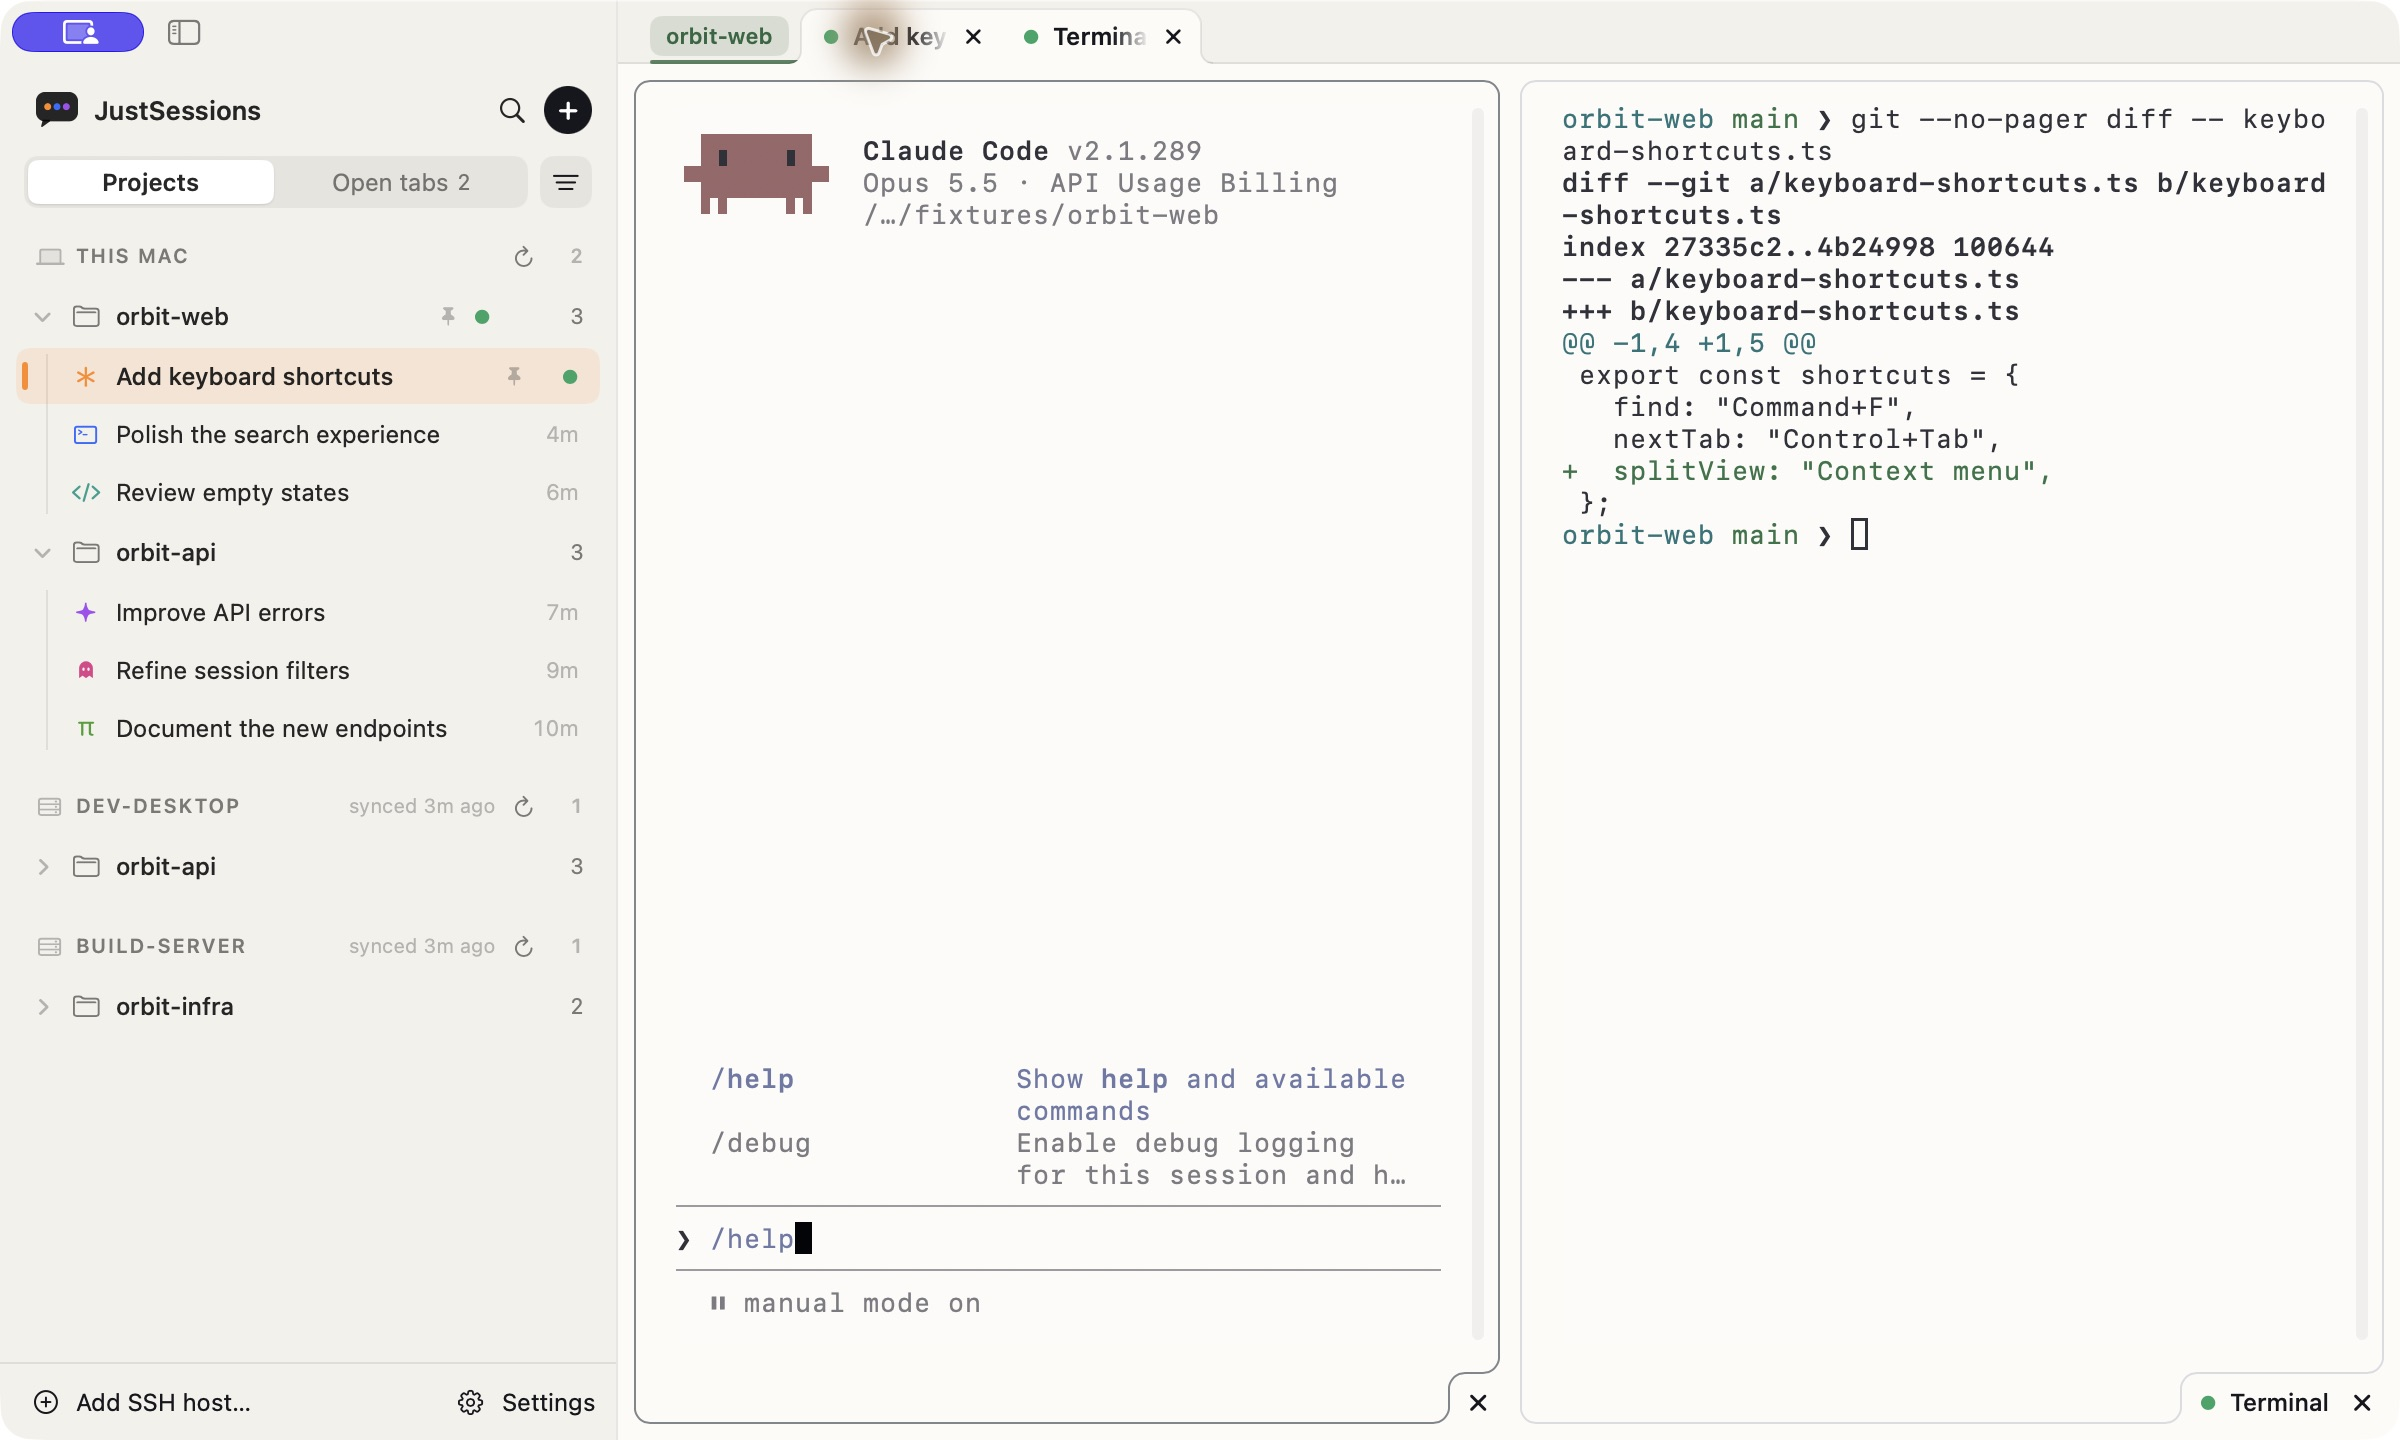
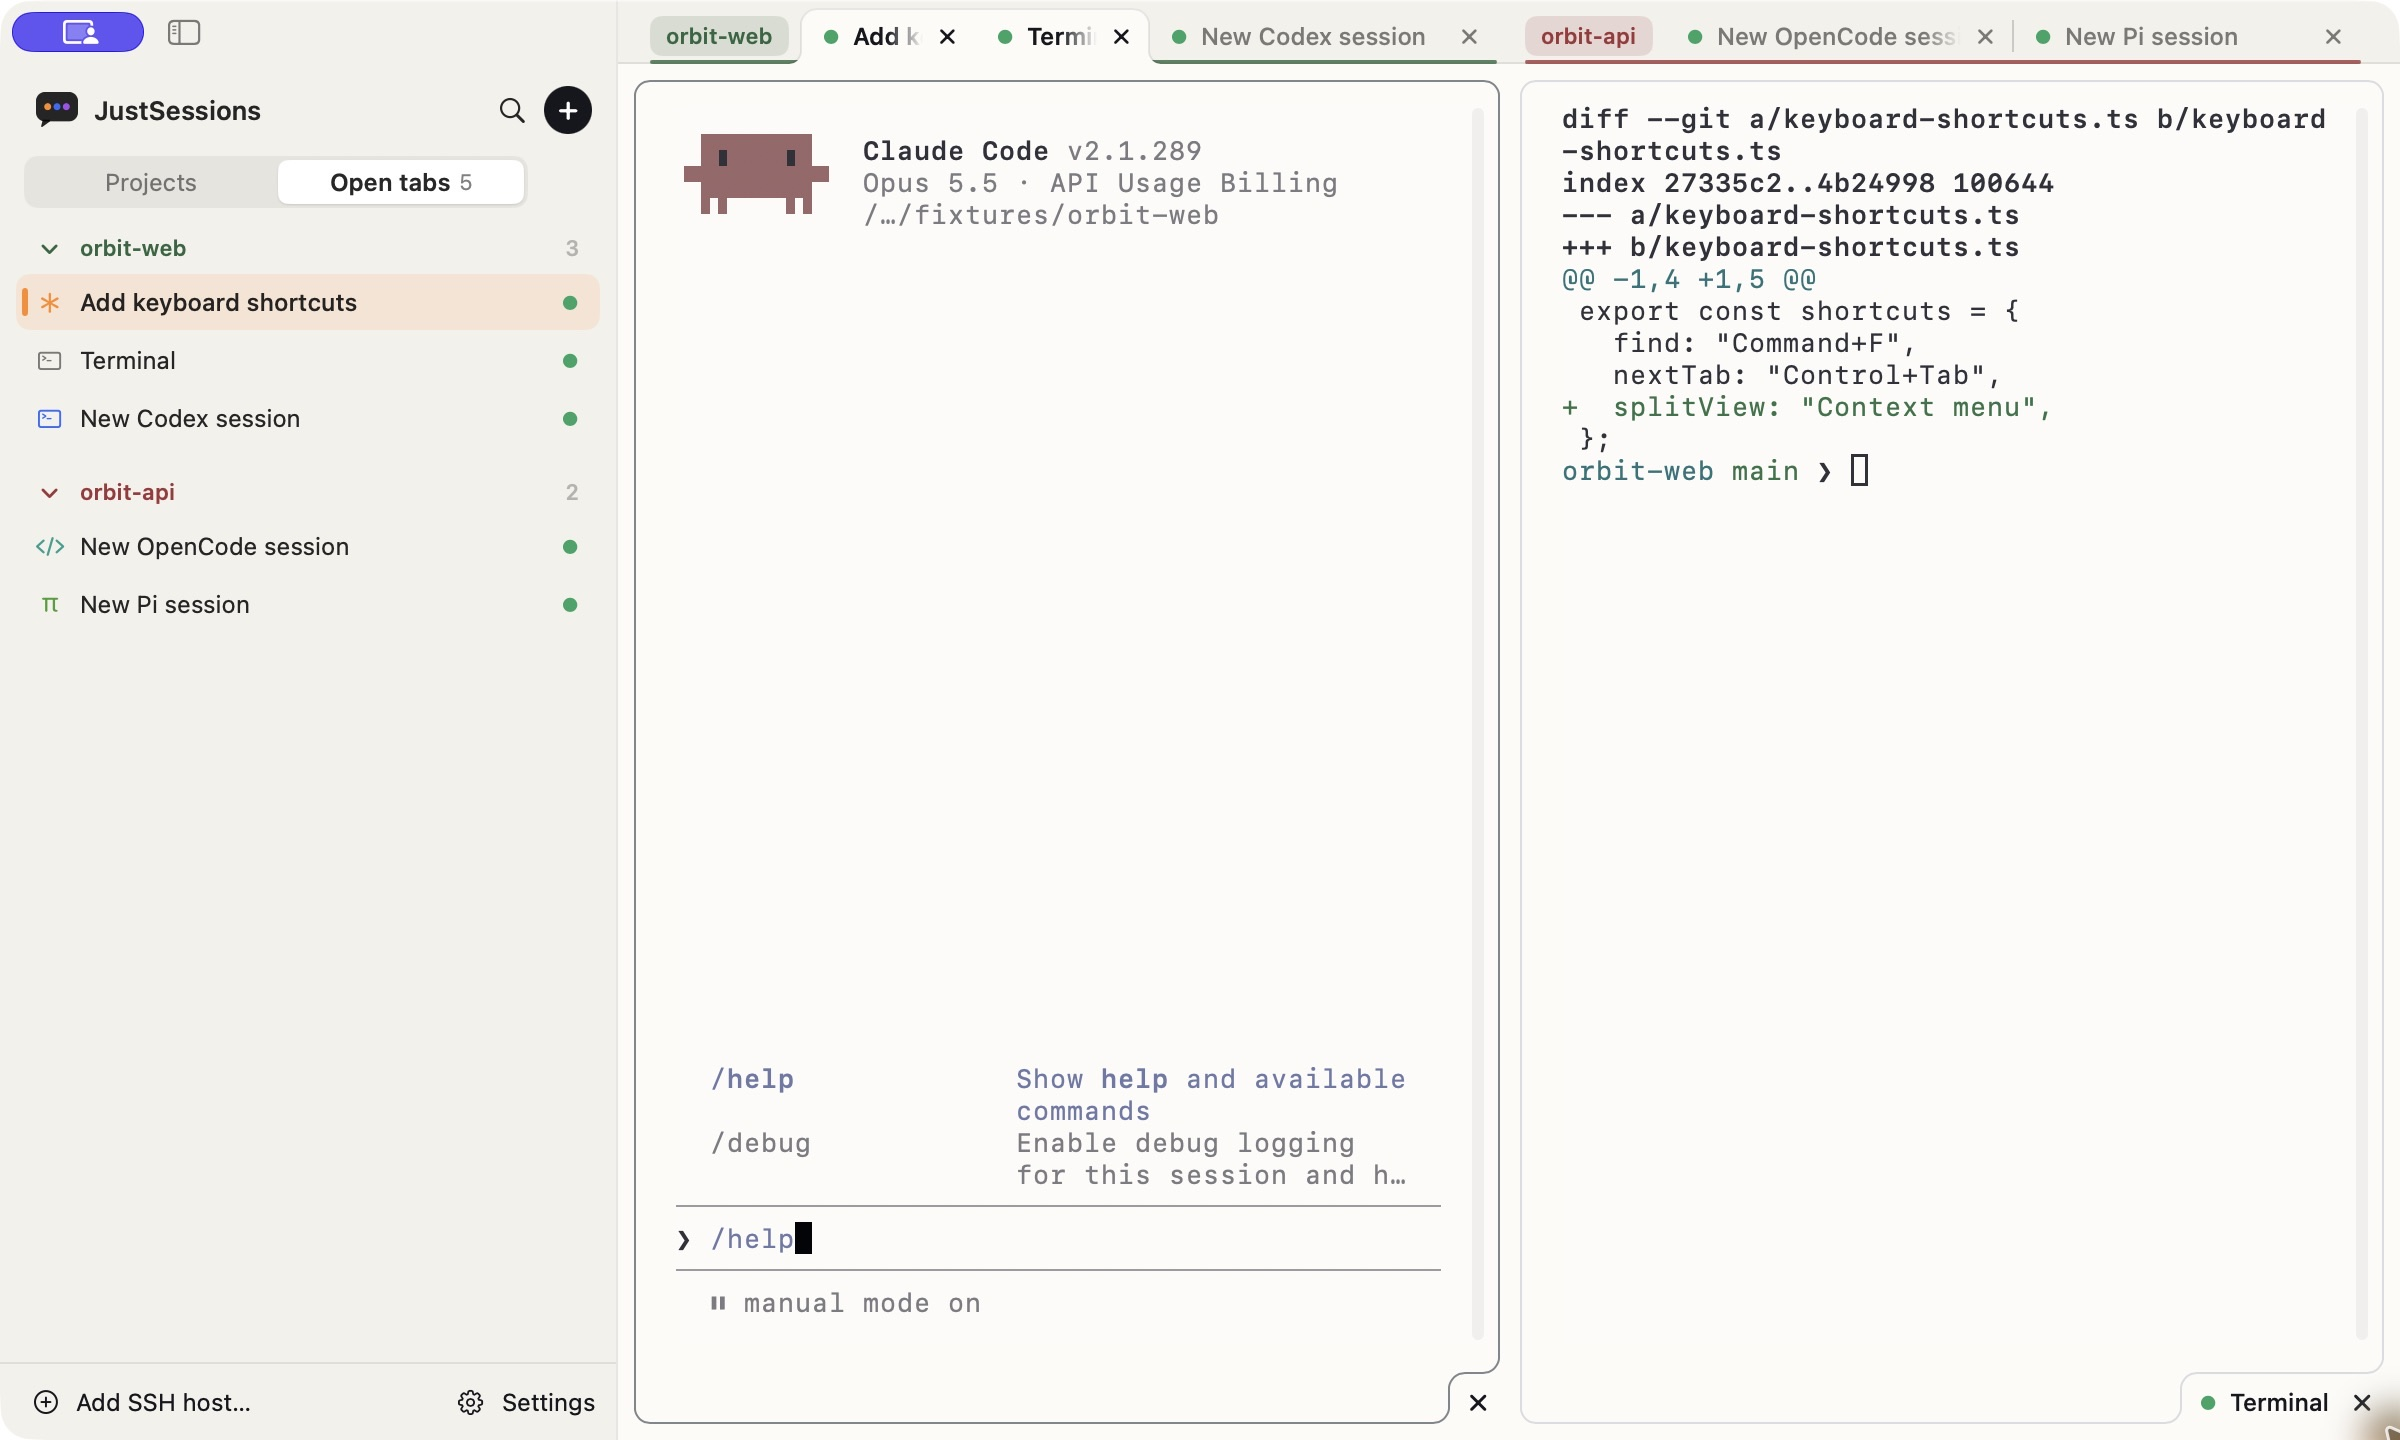
Show vertical open tabs alongside terminal split view

diff --git a/website/index.html b/website/index.html
@@ -140,8 +140,8 @@
                   <li>Agent + shell, side by side</li>
                 </ul>
               </figcaption>
-              <a class="gallery-image" href="./assets/split-terminal.jpg" aria-label="View the split view screenshot at full size">
-                <img src="./assets/split-terminal.jpg" width="2400" height="1440" loading="lazy" decoding="async" alt="JustSessions actual split view with Claude Code on the left and a project shell showing a real Git diff on the right, with joined tabs and a resize handle.">
+              <a class="gallery-image" href="./assets/split-terminal.jpg" aria-label="View the Open tabs and split view screenshot at full size">
+                <img src="./assets/split-terminal.jpg" width="2400" height="1440" loading="lazy" decoding="async" alt="JustSessions Open tabs sidebar lists five tabs across two projects, including Claude Code, Codex, OpenCode, Pi, and a shell. The split view shows the real Claude Code CLI beside a project shell displaying Git diff.">
               </a>
             </figure>
             <figure class="gallery-slide" id="reading" role="group" aria-roledescription="slide" aria-label="5 of 5: Session reader">

diff --git a/docs/development/website.md b/docs/development/website.md
@@ -23,7 +23,7 @@ The SSH slide adds the decorative `website/annotations/ssh-host-highlight.svg` l
 
 The homepage gallery presents your existing CLIs in one native terminal workspace → SSH → tmux → Split → Read. Each slide reads like a presentation page: on screens wider than 1000px, the heading and three short bullet points sit in a left column beside the screenshot, so the whole slide and its controls fit in the first screen of a 1440 × 820 laptop window. Narrower screens stack the text above the screenshot, and the caption row absorbs height differences so screenshots stay aligned without fixed caption heights. The first slide, “The CLIs you already use.”, lists the six supported agents in place of feature bullets. Slide headings stay smaller than the hero title. Screenshots sit directly on the page background, not inside a card. Guide navigation stays in the top bar and footer; the gallery has no small guide links or visible source labels. The slideshow controls sit centered under the screenshot. Five progress segments replace the text navigation labels; the active segment fills until the next screenshot. Each segment is also an accessible direct-selection button. Original screenshots stay unedited and link to their full-size files. The gallery supports swipe/trackpad scrolling, previous/next buttons, and arrow/Home/End keys when the track has focus. Without JavaScript, native scrolling and full-size image links still work.
 
-The third slide explains that choosing **Keep running** leaves the CLI in tmux until you click the session to reattach, and places the real close-tab choice over the full reattached-terminal image. Keep these two captures separately linked; choosing Keep running applies to closing a tmux-backed CLI tab, while quitting the app keeps its tmux sessions running without that choice. The fourth slide uses “Tabs like Chrome. Split view.” with bullets for creating and switching tabs, automatically reopening tabs at launch, and showing an agent beside a shell. Feature bullets use one consistent size and weight across desktop and phone layouts.
+The third slide explains that choosing **Keep running** leaves the CLI in tmux until you click the session to reattach, and places the real close-tab choice over the full reattached-terminal image. Keep these two captures separately linked; choosing Keep running applies to closing a tmux-backed CLI tab, while quitting the app keeps its tmux sessions running without that choice. The fourth slide uses “Tabs like Chrome. Split view.” with bullets for creating and switching tabs, automatically reopening tabs at launch, and showing an agent beside a shell. Its screenshot selects **Open tabs**, showing five tabs grouped vertically by project alongside the Claude Code and shell split view. Feature bullets use one consistent size and weight across desktop and phone layouts.
 
 `make website-check` also runs dependency-free Node tests for default automatic playback, continuous rotation in background tabs, and countdown preservation on explicit pause/resume. Python tests reject stale screenshot, script, and imported-module cache versions. Both website validation workflows set up Node 22 explicitly.
 

diff --git a/docs/images/README.md b/docs/images/README.md
@@ -5,7 +5,7 @@ These are unedited captures of the actual JustSessions SwiftUI and AppKit interf
 | Image | What it shows |
 | --- | --- |
 | [native-terminal.jpg](native-terminal.jpg) | The installed Claude Code CLI's real interactive `/help` screen in the native terminal, with current project tab groups and all six agent icons. |
-| [split-terminal.jpg](split-terminal.jpg) | Actual split view: the same Claude Code CLI's command input on the left and a real shell displaying `git diff` in the sample project on the right. |
+| [split-terminal.jpg](split-terminal.jpg) | The selected Open tabs sidebar lists five tabs across two projects: Claude Code, a shell, Codex, OpenCode, and Pi. The split view pairs the real Claude Code CLI's command input with a shell displaying `git diff`. Refreshed from the same existing sample app on October 4, 2026. |
 | [session-overview.jpg](session-overview.jpg) | The current conversation reader, pinned projects and sessions, Projects / Open tabs navigation, per-host refresh, and reading controls. |
 | [remote-desktop-sessions.jpg](remote-desktop-sessions.jpg) | A selected Claude Code conversation under the sample `dev-desktop` SSH host. |
 | [tmux-keep-running.jpg](tmux-keep-running.jpg) | The full app window after quitting and reopening: the same Claude Code CLI reattached in the sample tmux session, with the sidebar, project tabs, and tmux status bar visible. |
@@ -17,6 +17,6 @@ The homepage's SSH slide overlays [an orange outline](../../website/annotations/
 
 `orbit-web`, `orbit-api`, `orbit-infra`, the host names, and all saved conversation text are illustrative. Remote host data is a fixture; these images do not document a live SSH connection.
 
-Claude Code 2.1.289 runs in an isolated sample configuration. Its screenshots show local help and command input; no model prompt was submitted. The split-view shell runs in a temporary sample Git repository with an actual uncommitted change. The tmux screenshot uses Claude Code in a separate sample server. The screenshot app was quit and reopened, then attached to the same running CLI before its local help screen was captured. The sample server was stopped after capture.
+Claude Code 2.1.289 runs in an isolated sample configuration. Its screenshots show local help and command input; no model prompt was submitted. The split-view shell runs in a temporary sample Git repository with an actual uncommitted change. Its additional tabs were opened through the app's New session dialog using the installed CLIs; no model prompts were submitted to them. The tmux screenshot uses Claude Code in a separate sample server. The screenshot app was quit and reopened, then attached to the same running CLI before its local help screen was captured. The sample server was stopped after capture.
 
 The capture app was linked from the debug objects produced by `make check`, excluding the normal app entry point, with fixture data and background polling disabled. When replacing these images, capture the current native interface, retain the real feature labels, update the source revision, and keep each screenshot's descriptive alt text and sample caption in the [main README](../../README.md).

diff --git a/README.md b/README.md
@@ -45,7 +45,7 @@
 
 **Two terminals, side by side.** Keep an agent beside your shell, or compare sessions. Click a pane to focus it and drag the divider to make room. [Split view](docs/guides/session-management.md#resume-branch-and-start-sessions).
 
-![JustSessions split view with the real Claude Code CLI on the left and a project shell displaying Git diff on the right](docs/images/split-terminal.jpg)
+![JustSessions Open tabs sidebar with five tabs across two projects, alongside the real Claude Code CLI and a project shell displaying Git diff in split view](docs/images/split-terminal.jpg)
 
 *Real Claude Code CLI and shell in split view, using a sample Git project.*
 
